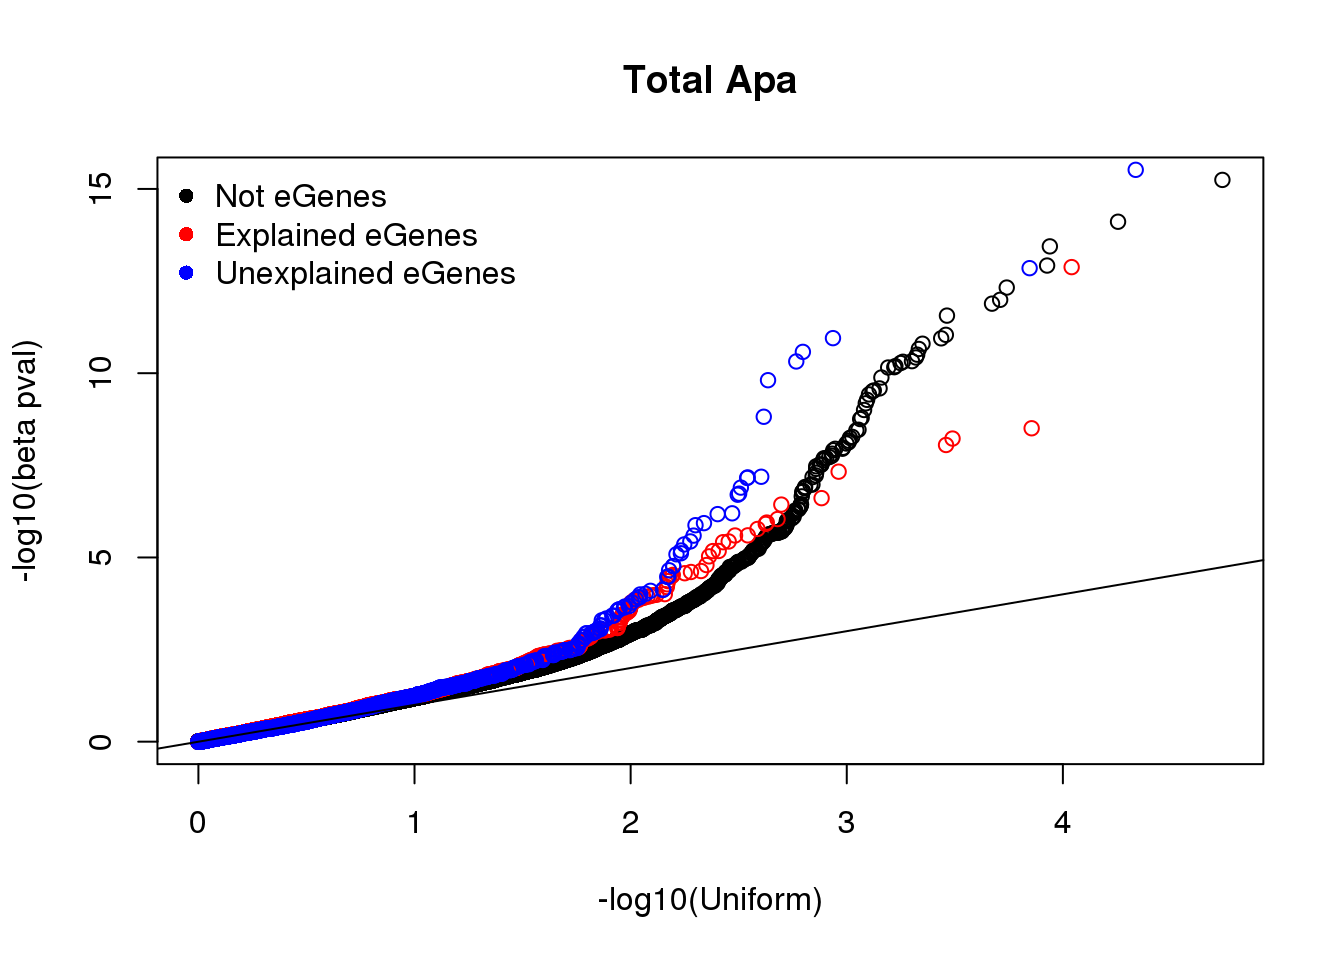
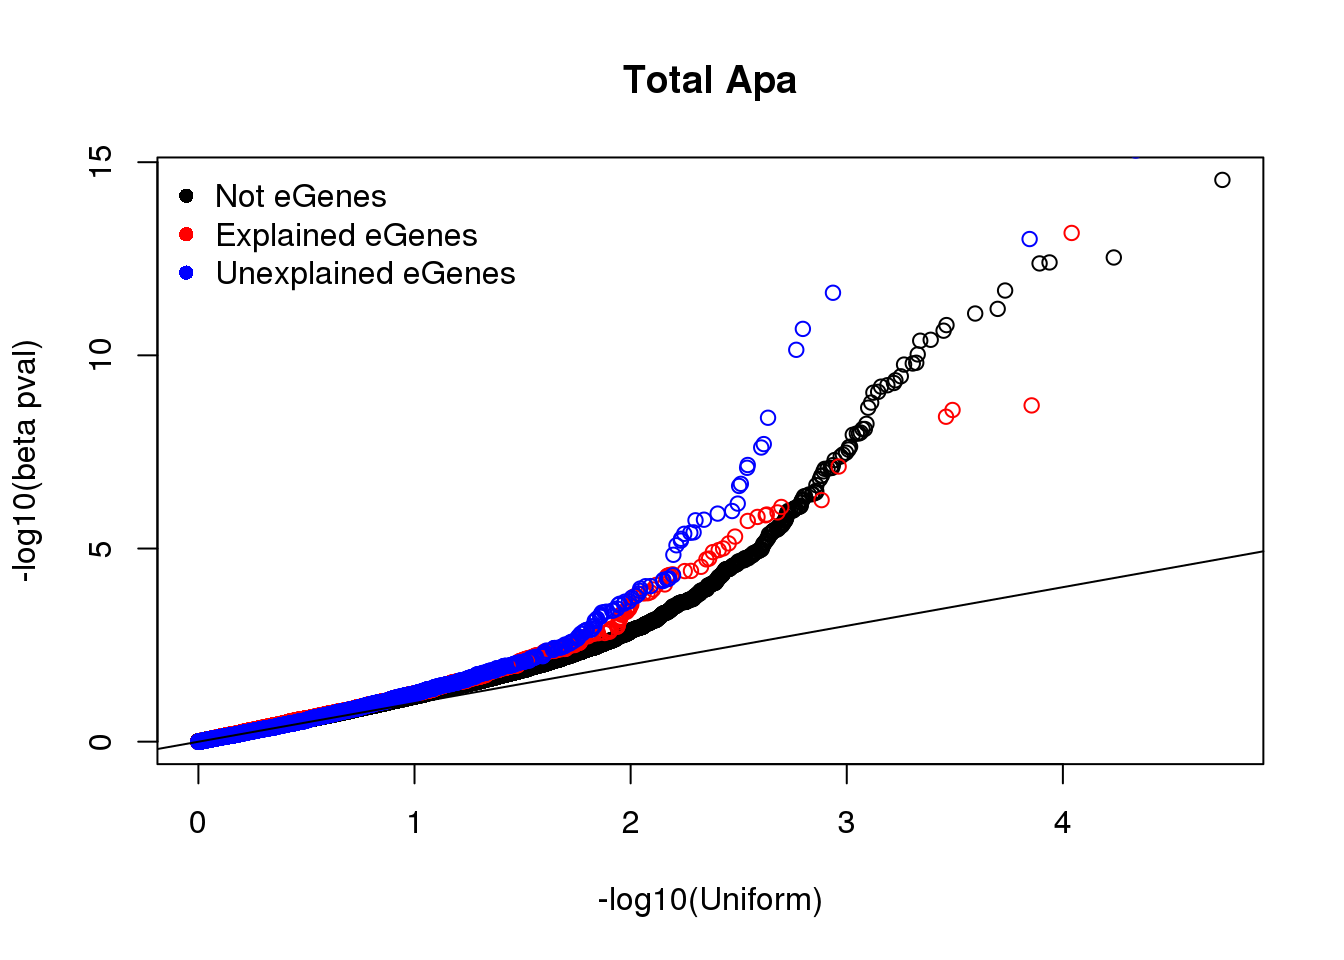
Build site.

diff --git a/docs/exvunexpeQTL.html b/docs/exvunexpeQTL.html
@@ -343,7 +343,7 @@ div.section {
 <div class="tab-content">
 <div id="summary" class="tab-pane fade in active">
 <p>
-<strong>Last updated:</strong> 2019-06-06
+<strong>Last updated:</strong> 2019-06-12
 </p>
 <p>
 <strong>Checks:</strong> <span class="glyphicon glyphicon-ok text-success" aria-hidden="true"></span> 6 <span class="glyphicon glyphicon-exclamation-sign text-danger" aria-hidden="true"></span> 0
@@ -422,10 +422,10 @@ This reproducible <a href="http://rmarkdown.rstudio.com">R Markdown</a> analysis
 <div class="panel panel-default">
 <div class="panel-heading">
 <p class="panel-title">
-<a data-toggle="collapse" data-parent="#workflowr-checks" href="#strongRepositoryversionstrongahrefhttpsgithubcombrimittlemanapaQTLtree8710e5c8f3701eec64c89bee178bd2840575745ctargetblank8710e5ca"> <span class="glyphicon glyphicon-ok text-success" aria-hidden="true"></span> <strong>Repository version:</strong> <a href="https://github.com/brimittleman/apaQTL/tree/8710e5c8f3701eec64c89bee178bd2840575745c" target="_blank">8710e5c</a> </a>
+<a data-toggle="collapse" data-parent="#workflowr-checks" href="#strongRepositoryversionstrongahrefhttpsgithubcombrimittlemanapaQTLtree486bba25b4d562dee2a1ab8856e7331eaa06f665targetblank486bba2a"> <span class="glyphicon glyphicon-ok text-success" aria-hidden="true"></span> <strong>Repository version:</strong> <a href="https://github.com/brimittleman/apaQTL/tree/486bba25b4d562dee2a1ab8856e7331eaa06f665" target="_blank">486bba2</a> </a>
 </p>
 </div>
[2 lines of base64/hex data omitted]
 <div class="panel-body">
 <p>
 Great! You are using Git for version control. Tracking code development and connecting the code version to the results is critical for reproducibility. The version displayed above was the version of the Git repository at the time these results were generated. <br><br> Note that you need to be careful to ensure that all relevant files for the analysis have been committed to Git prior to generating the results (you can use <code>wflow_publish</code> or <code>wflow_git_commit</code>). workflowr only checks the R Markdown file, but you know if there are other scripts or data files that it depends on. Below is the status of the Git repository when the results were generated:
@@ -446,11 +446,14 @@ Untracked files:
     Untracked:  analysis/._cuttoffPercUsage.Rmd
     Untracked:  analysis/cuttoffPercUsage.Rmd
     Untracked:  analysis/eQTLoverlap.Rmd
+    Untracked:  analysis/oldstuffNotNeeded.Rmd
     Untracked:  apaQTL.Rproj
     Untracked:  code/.NascentRNAdtPlotFirstintronicPAS.sh.swp
     Untracked:  code/._ApaQTL_nominalNonnorm.sh
     Untracked:  code/._BothFracDTPlotGeneRegions_normalized.sh
+    Untracked:  code/._FC_NucintornUpandDown.sh
     Untracked:  code/._FC_UTR.sh
+    Untracked:  code/._FC_intornUpandDownsteamPAS.sh
     Untracked:  code/._FC_newPeaks_olddata.sh
     Untracked:  code/._HMMpermuteTotal.py
     Untracked:  code/._HmmPermute.py
@@ -463,6 +466,7 @@ Untracked files:
     Untracked:  code/._NascentRNAdtPlotintronicPAS.sh
     Untracked:  code/._NascnetRNAdtPlotPAS.sh
     Untracked:  code/._NetSeq_fourthintronDT.sh
+    Untracked:  code/._QTL2bed.py
     Untracked:  code/._SnakefilePAS
     Untracked:  code/._SnakefilefiltPAS
     Untracked:  code/._TESplots100bp.sh
@@ -518,11 +522,19 @@ Untracked files:
     Untracked:  code/._getAPAfromanyeQTL.py
     Untracked:  code/._getApapval4eqtl.py
     Untracked:  code/._getApapval4eqtl_unexp.py
+    Untracked:  code/._getDownstreamIntronNuclear.py
+    Untracked:  code/._getIntronDownstreamPAS.py
+    Untracked:  code/._getIntronUpstreamPAS.py
+    Untracked:  code/._getQTLalleles.py
+    Untracked:  code/._getUpstreamIntronNuclear.py
     Untracked:  code/._grouptranscripts.py
+    Untracked:  code/._keep5perMAF.py
+    Untracked:  code/._keepSNP_vcf.sh
     Untracked:  code/._make5percPeakbed.py
     Untracked:  code/._makeFileID.py
     Untracked:  code/._makePheno.py
     Untracked:  code/._makeSAFbothfrac5perc.py
+    Untracked:  code/._makeSNP2rsidfile.py
     Untracked:  code/._makeeQTLempirical_unexp.py
     Untracked:  code/._makeeQTLempiricaldist.py
     Untracked:  code/._makegencondeTSSfile.py
@@ -539,6 +551,8 @@ Untracked files:
     Untracked:  code/._peak2PAS.py
     Untracked:  code/._peakFC.sh
     Untracked:  code/._pheno2countonly.R
+    Untracked:  code/._processYRIgen.py
+    Untracked:  code/._qtlRegionseq.sh
     Untracked:  code/._qtlsPvalOppFrac.py
     Untracked:  code/._quantassign2parsedpeak.py
     Untracked:  code/._removeXfromHmm.py
@@ -552,8 +566,10 @@ Untracked files:
     Untracked:  code/._run_getapapval4eqtl_unexp.sh
     Untracked:  code/._run_leafcutterDiffIso.sh
     Untracked:  code/._run_sepUsagephen.sh
+    Untracked:  code/._run_sepgenobychrom.sh
     Untracked:  code/._selectNominalPvalues.py
     Untracked:  code/._sepUsagePhen.py
+    Untracked:  code/._sepgenobychrom.py
     Untracked:  code/._snakemakePAS.batch
     Untracked:  code/._snakemakefiltPAS.batch
     Untracked:  code/._submit-snakemakePAS.sh
@@ -565,6 +581,7 @@ Untracked files:
     Untracked:  code/._subtrachfiveprimeUTR.sh
     Untracked:  code/._subtractExons.sh
     Untracked:  code/._subtractfiveprimeUTR.sh
+    Untracked:  code/._tabixSNPS.sh
     Untracked:  code/._utrdms2saf.py
     Untracked:  code/.snakemake/
     Untracked:  code/APAqtl_nominal.err
@@ -588,9 +605,15 @@ Untracked files:
     Untracked:  code/DistPAS2Sig.py
     Untracked:  code/EncodeRNADTPlotGeneRegions.err
     Untracked:  code/EncodeRNADTPlotGeneRegions.out
+    Untracked:  code/FC_NucintornUpandDown.sh
+    Untracked:  code/FC_NucintronPASupandDown.err
+    Untracked:  code/FC_NucintronPASupandDown.out
     Untracked:  code/FC_UTR.err
     Untracked:  code/FC_UTR.out
     Untracked:  code/FC_UTR.sh
+    Untracked:  code/FC_intornUpandDownsteamPAS.sh
+    Untracked:  code/FC_intronPASupandDown.err
+    Untracked:  code/FC_intronPASupandDown.out
     Untracked:  code/FC_newPAS_olddata.err
     Untracked:  code/FC_newPAS_olddata.out
     Untracked:  code/FC_newPeaks_olddata.sh
@@ -621,6 +644,7 @@ Untracked files:
     Untracked:  code/NascentRNAdtPlotintronicPAS.sh
     Untracked:  code/NascnetRNAdtPlotPAS.sh
     Untracked:  code/NetSeq_fourthintronDT.sh
+    Untracked:  code/QTL2bed.py
     Untracked:  code/README.md
     Untracked:  code/Rplots.pdf
     Untracked:  code/TESplots100bp.err
@@ -679,18 +703,28 @@ Untracked files:
     Untracked:  code/fixRNAkalisto.py
     Untracked:  code/fixgroupedtranscript.py
     Untracked:  code/fixhead_netseqfc.py
+    Untracked:  code/genotypesYRI.gen.proc.keep.vcf.log
+    Untracked:  code/genotypesYRI.gen.proc.keep.vcf.recode.vcf
     Untracked:  code/get100upPAS.py
     Untracked:  code/getAPAfromanyeQTL.py
     Untracked:  code/getApapval4eqtl.py
     Untracked:  code/getApapval4eqtl_unexp.py
+    Untracked:  code/getDownstreamIntronNuclear.py
+    Untracked:  code/getIntronDownstreamPAS.py
+    Untracked:  code/getIntronUpstreamPAS.py
+    Untracked:  code/getQTLalleles.py
     Untracked:  code/getSeq100up.sh
+    Untracked:  code/getUpstreamIntronNuclear.py
     Untracked:  code/getseq100up.err
     Untracked:  code/getseq100up.out
     Untracked:  code/grouptranscripts.err
     Untracked:  code/grouptranscripts.out
     Untracked:  code/grouptranscripts.py
+    Untracked:  code/keep5perMAF.py
+    Untracked:  code/keepSNP_vcf.sh
     Untracked:  code/log/
     Untracked:  code/makeSAFbothfrac5perc.py
+    Untracked:  code/makeSNP2rsidfile.py
     Untracked:  code/makeeQTLempirical_unexp.py
     Untracked:  code/makeeQTLempiricaldist.py
     Untracked:  code/makegencondeTSSfile.py
@@ -712,8 +746,10 @@ Untracked files:
     Untracked:  code/netseqFC.out
     Untracked:  code/netseqFC.sh
     Untracked:  code/neyDTPlot4thintron.err
+    Untracked:  code/processYRIgen.py
     Untracked:  code/qtlFacetBoxplots.err
     Untracked:  code/qtlFacetBoxplots.out
+    Untracked:  code/qtlRegionseq.sh
     Untracked:  code/qtlsPvalOppFrac.py
     Untracked:  code/removeXfromHmm.py
     Untracked:  code/removeloc_pheno.py
@@ -746,10 +782,16 @@ Untracked files:
     Untracked:  code/run_leafcutter_ds.out
     Untracked:  code/run_qtlFacetBoxplots.sh
     Untracked:  code/run_sepUsagephen.sh
+    Untracked:  code/run_sepgenobychrom.err
+    Untracked:  code/run_sepgenobychrom.out
+    Untracked:  code/run_sepgenobychrom.sh
     Untracked:  code/run_sepusage.err
     Untracked:  code/run_sepusage.out
     Untracked:  code/selectNominalPvalues.py
     Untracked:  code/sepUsagePhen.py
+    Untracked:  code/sepgenobychrom.py
+    Untracked:  code/seqQTLregion.err
+    Untracked:  code/seqQTLregion.out
     Untracked:  code/snakePASlog.out
     Untracked:  code/snakefiltPASlog.out
     Untracked:  code/subsetApanoteGene.py
@@ -762,8 +804,13 @@ Untracked files:
     Untracked:  code/subtractExons.out
     Untracked:  code/subtractExons.sh
     Untracked:  code/subtractfiveprimeUTR.sh
+    Untracked:  code/tabixSNPS.sh
+    Untracked:  code/tabixSNPs.err
+    Untracked:  code/tabixSNPs.out
     Untracked:  code/transcriptdm2bed.py
     Untracked:  code/utrdms2saf.py
+    Untracked:  code/vcf_keepsnps.err
+    Untracked:  code/vcf_keepsnps.out
     Untracked:  code/zipandtabPhen.err
     Untracked:  code/zipandtabPhen.out
     Untracked:  data/ApaByEgene/
@@ -810,12 +857,14 @@ Untracked files:
     Untracked:  data/highdiffsiggenes.txt
     Untracked:  data/inclusivePeaks/
     Untracked:  data/inclusivePeaks_FC/
+    Untracked:  data/intronRNAratio/
     Untracked:  data/intron_analysis/
     Untracked:  data/mergedBG/
     Untracked:  data/mergedBW_byfrac/
     Untracked:  data/mergedBW_norm/
     Untracked:  data/mergedBam/
     Untracked:  data/mergedbyFracBam/
+    Untracked:  data/motifdistrupt/
     Untracked:  data/netseq/
     Untracked:  data/nonNorm_pheno/
     Untracked:  data/nuc_10up/
@@ -843,10 +892,11 @@ Unstaged changes:
     Modified:   analysis/Readdistagainstfeatures.Rmd
     Modified:   analysis/choosePCs.Rmd
     Modified:   analysis/corrbetweenind.Rmd
+    Modified:   analysis/mapapaQTL.Rmd
+    Modified:   analysis/motifDisruption.Rmd
     Modified:   analysis/nascenttranscription.Rmd
     Modified:   analysis/nucintronicanalysis.Rmd
     Modified:   analysis/overlapapaqtlsandeqtls.Rmd
-    Modified:   analysis/rerunQTL_changePC.Rmd
     Modified:   analysis/rna_netseq_h3k12ac.Rmd
     Modified:   code/BothFracDTPlotGeneRegions.sh
     Modified:   code/Snakefile
@@ -902,6 +952,40 @@ Message
 Rmd
 </td>
 <td>
+<a href="https://github.com/brimittleman/apaQTL/blob/486bba25b4d562dee2a1ab8856e7331eaa06f665/analysis/exvunexpeQTL.Rmd" target="_blank">486bba2</a>
+</td>
+<td>
+brimittleman
+</td>
+<td>
+2019-06-12
+</td>
+<td>
+new genos
+</td>
+</tr>
+<tr>
+<td>
+html
+</td>
+<td>
+<a href="https://rawcdn.githack.com/brimittleman/apaQTL/4c50025c7df6cd909fba5a32d18b7f373f2d7c9f/docs/exvunexpeQTL.html" target="_blank">4c50025</a>
+</td>
+<td>
+brimittleman
+</td>
+<td>
+2019-06-06
+</td>
+<td>
+Build site.
+</td>
+</tr>
+<tr>
+<td>
+Rmd
+</td>
+<td>
 <a href="https://github.com/brimittleman/apaQTL/blob/8710e5c8f3701eec64c89bee178bd2840575745c/analysis/exvunexpeQTL.Rmd" target="_blank">8710e5c</a>
 </td>
 <td>
@@ -922,12 +1006,12 @@ add new analysis for unex v ex
 </div>
 </div>
 <pre class="r"><code>library(tidyverse)</code></pre>
-<pre><code>── Attaching packages ──────────────────────────────────────────────────────────────────────────────────── tidyverse 1.2.1 ──</code></pre>
+<pre><code>── Attaching packages ───────────────────────────────────────────────────────────── tidyverse 1.2.1 ──</code></pre>
 <pre><code>✔ ggplot2 3.1.1       ✔ purrr   0.3.2  
 ✔ tibble  2.1.1       ✔ dplyr   0.8.0.1
 ✔ tidyr   0.8.3       ✔ stringr 1.3.1  
 ✔ readr   1.3.1       ✔ forcats 0.3.0  </code></pre>
-<pre><code>── Conflicts ─────────────────────────────────────────────────────────────────────────────────────── tidyverse_conflicts() ──
+<pre><code>── Conflicts ──────────────────────────────────────────────────────────────── tidyverse_conflicts() ──
 ✖ dplyr::filter() masks stats::filter()
 ✖ dplyr::lag()    masks stats::lag()</code></pre>
 <p>I want to ask if the unexplained and explaiend eQTLs are in the same or different genes.</p>
@@ -964,24 +1048,102 @@ python subsetApanoteGene.py Nuclear ../data/ApaByEgene/NuclearApaNOTeGene.txt
 <h3>Total</h3>
 <pre class="r"><code>tot.notE=read.table(&quot;../data/ApaByEgene/TotalApaNOTeGene.txt&quot;,stringsAsFactors = F,col.names = c(&quot;pid&quot;, &quot;nvar&quot;, &quot;shape1&quot;, &quot;shape2&quot;, &quot;dummy&quot;, &quot;sid&quot;, &quot;dist&quot;, &quot;npval&quot;, &quot;slope&quot;, &quot;ppval&quot;, &quot;bpval&quot;))
 tot.ex=read.table(&quot;../data/ApaByEgene/TotalApaexplainedeGenes.txt&quot;,stringsAsFactors = F,col.names = c(&quot;pid&quot;, &quot;nvar&quot;, &quot;shape1&quot;, &quot;shape2&quot;, &quot;dummy&quot;, &quot;sid&quot;, &quot;dist&quot;, &quot;npval&quot;, &quot;slope&quot;, &quot;ppval&quot;, &quot;bpval&quot;))
-tot.un=read.table(&quot;../data/ApaByEgene/TotalApaUnexplainedeGenes.txt&quot;,stringsAsFactors = F, col.names = c(&quot;pid&quot;, &quot;nvar&quot;, &quot;shape1&quot;, &quot;shape2&quot;, &quot;dummy&quot;, &quot;sid&quot;, &quot;dist&quot;, &quot;npval&quot;, &quot;slope&quot;, &quot;ppval&quot;, &quot;bpval&quot;) )</code></pre>
+tot.un=read.table(&quot;../data/ApaByEgene/TotalApaUnexplainedeGenes.txt&quot;,stringsAsFactors = F, col.names = c(&quot;pid&quot;, &quot;nvar&quot;, &quot;shape1&quot;, &quot;shape2&quot;, &quot;dummy&quot;, &quot;sid&quot;, &quot;dist&quot;, &quot;npval&quot;, &quot;slope&quot;, &quot;ppval&quot;, &quot;bpval&quot;) )
+tot.un=na.omit(tot.un)</code></pre>
 <pre class="r"><code>qqplot(-log10(runif(nrow(tot.notE))), -log10(tot.notE$bpval), xlab=&quot;-log10(Uniform)&quot;, ylab=&quot;-log10(beta pval)&quot;, main=&quot;Total Apa&quot;)
 points(sort(-log10(runif(nrow(tot.ex)))), sort(-log10(tot.ex$bpval)),col= alpha(&quot;Red&quot;))
 points(sort(-log10(runif(nrow(tot.un)))), sort(-log10(tot.un$bpval)),col= alpha(&quot;Blue&quot;))
 abline(0,1)
 
 legend(&quot;topleft&quot;, legend=c(&quot;Not eGenes&quot;, &quot;Explained eGenes&quot;, &quot;Unexplained eGenes&quot;),col=c(&quot;black&quot;, &quot;red&quot;, &quot;blue&quot;), pch=16,bty = &#39;n&#39;)</code></pre>
-<p><img src="figure/exvunexpeQTL.Rmd/unnamed-chunk-7-1.png" width="672" style="display: block; margin: auto;" /> ###Nuclear</p>
+<p><img src="figure/exvunexpeQTL.Rmd/unnamed-chunk-7-1.png" width="672" style="display: block; margin: auto;" /></p>
+<p>
+<button type="button" class="btn btn-default btn-xs btn-workflowr btn-workflowr-fig" data-toggle="collapse" data-target="#fig-unnamed-chunk-7-1">
+Past versions of unnamed-chunk-7-1.png
+</button>
+</p>
+<div id="fig-unnamed-chunk-7-1" class="collapse">
+<div class="table-responsive">
+<table class="table table-condensed table-hover">
+<thead>
+<tr>
+<th>
+Version
+</th>
+<th>
+Author
+</th>
+<th>
+Date
+</th>
+</tr>
+</thead>
+<tbody>
+<tr>
+<td>
+<a href="https://github.com/brimittleman/apaQTL/blob/4c50025c7df6cd909fba5a32d18b7f373f2d7c9f/docs/figure/exvunexpeQTL.Rmd/unnamed-chunk-7-1.png" target="_blank">4c50025</a>
+</td>
+<td>
+brimittleman
+</td>
+<td>
+2019-06-06
+</td>
+</tr>
+</tbody>
+</table>
+</div>
+</div>
+</div>
+<div id="nuclear" class="section level3">
+<h3>Nuclear</h3>
 <pre class="r"><code>nuc.notE=read.table(&quot;../data/ApaByEgene/NuclearApaNOTeGene.txt&quot;,stringsAsFactors = F,col.names = c(&quot;pid&quot;, &quot;nvar&quot;, &quot;shape1&quot;, &quot;shape2&quot;, &quot;dummy&quot;, &quot;sid&quot;, &quot;dist&quot;, &quot;npval&quot;, &quot;slope&quot;, &quot;ppval&quot;, &quot;bpval&quot;))
 nuc.ex=read.table(&quot;../data/ApaByEgene/NuclearApaexplainedeGenes.txt&quot;,stringsAsFactors = F,col.names = c(&quot;pid&quot;, &quot;nvar&quot;, &quot;shape1&quot;, &quot;shape2&quot;, &quot;dummy&quot;, &quot;sid&quot;, &quot;dist&quot;, &quot;npval&quot;, &quot;slope&quot;, &quot;ppval&quot;, &quot;bpval&quot;))
-nuc.un=read.table(&quot;../data/ApaByEgene/NuclearApaUnexplainedeGenes.txt&quot;,stringsAsFactors = F, col.names = c(&quot;pid&quot;, &quot;nvar&quot;, &quot;shape1&quot;, &quot;shape2&quot;, &quot;dummy&quot;, &quot;sid&quot;, &quot;dist&quot;, &quot;npval&quot;, &quot;slope&quot;, &quot;ppval&quot;, &quot;bpval&quot;) )</code></pre>
+nuc.un=read.table(&quot;../data/ApaByEgene/NuclearApaUnexplainedeGenes.txt&quot;,stringsAsFactors = F, col.names = c(&quot;pid&quot;, &quot;nvar&quot;, &quot;shape1&quot;, &quot;shape2&quot;, &quot;dummy&quot;, &quot;sid&quot;, &quot;dist&quot;, &quot;npval&quot;, &quot;slope&quot;, &quot;ppval&quot;, &quot;bpval&quot;) )
+nuc.un=na.omit(nuc.un)</code></pre>
 <pre class="r"><code>qqplot(-log10(runif(nrow(nuc.notE))), -log10(nuc.notE$bpval), xlab=&quot;-log10(Uniform)&quot;, ylab=&quot;-log10(beta pval)&quot;, main=&quot;Nuclear Apa&quot;)
 points(sort(-log10(runif(nrow(nuc.ex)))), sort(-log10(nuc.ex$bpval)),col= alpha(&quot;Red&quot;))
 points(sort(-log10(runif(nrow(nuc.un)))), sort(-log10(nuc.un$bpval)),col= alpha(&quot;Blue&quot;))
 abline(0,1)
-
 legend(&quot;topleft&quot;, legend=c(&quot;Not eGenes&quot;, &quot;Explained eGenes&quot;, &quot;Unexplained eGenes&quot;),col=c(&quot;black&quot;, &quot;red&quot;, &quot;blue&quot;), pch=16,bty = &#39;n&#39;)</code></pre>
 <p><img src="figure/exvunexpeQTL.Rmd/unnamed-chunk-9-1.png" width="672" style="display: block; margin: auto;" /></p>
+<p>
+<button type="button" class="btn btn-default btn-xs btn-workflowr btn-workflowr-fig" data-toggle="collapse" data-target="#fig-unnamed-chunk-9-1">
+Past versions of unnamed-chunk-9-1.png
+</button>
+</p>
+<div id="fig-unnamed-chunk-9-1" class="collapse">
+<div class="table-responsive">
+<table class="table table-condensed table-hover">
+<thead>
+<tr>
+<th>
+Version
+</th>
+<th>
+Author
+</th>
+<th>
+Date
+</th>
+</tr>
+</thead>
+<tbody>
+<tr>
+<td>
+<a href="https://github.com/brimittleman/apaQTL/blob/4c50025c7df6cd909fba5a32d18b7f373f2d7c9f/docs/figure/exvunexpeQTL.Rmd/unnamed-chunk-9-1.png" target="_blank">4c50025</a>
+</td>
+<td>
+brimittleman
+</td>
+<td>
+2019-06-06
+</td>
+</tr>
+</tbody>
+</table>
+</div>
+</div>
 <br>
 <p>
 <button type="button" class="btn btn-default btn-workflowr btn-workflowr-sessioninfo" data-toggle="collapse" data-target="#workflowr-sessioninfo" style="display: block;">
